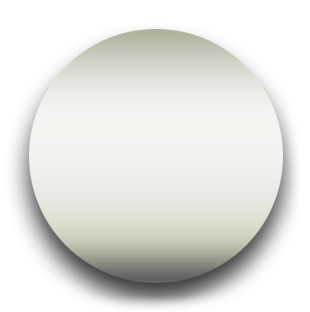
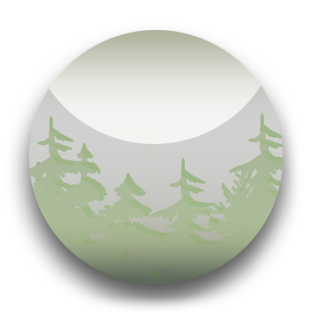
a

diff --git a/src/app2.vue b/src/app2.vue
@@ -3,6 +3,8 @@
 
         <div class="background-slider" :style="backgroundSliderStyle" ref="backgroundSlider"></div>
 
+        <div class="background-v-grad"></div>
+
         <div v-if="!detailViewOpen" class="sector-frame" ref="sectorFrame" :style="computeTransform()" >
             <sector2 v-for="(sector, index) in sectors" 
             :key="index" 
@@ -30,8 +32,8 @@
                 <div class="flag ru" :class="{active:(getLanguage()=='ru')}" v-on:click="setLanguage('ru')"></div>
                 <div class="flag en" :class="{active:(getLanguage()=='en')}" v-on:click="setLanguage('en')"></div>
                 <div class="flag lv" :class="{active:(getLanguage()=='lv')}" v-on:click="setLanguage('lv')"></div>
-                <div class="button-prev" v-if="!isDetailViewVisible" v-on:click="autoRotate(10)"></div>
-                <div class="button-next" v-if="!isDetailViewVisible" v-on:click="autoRotate(-10)"></div>
+                <div class="button-prev" v-if="!detailViewOpen" v-on:click="autoRotate(10)"></div>
+                <div class="button-next" v-if="!detailViewOpen" v-on:click="autoRotate(-10)"></div>
             </div>
         </div>
 
@@ -156,6 +158,7 @@
             initDetailView:function(){
                 if(typeof this.$refs.detailScreen != 'undefined') {
                     Velocity(this.$refs.detailScreen, {opacity: 0}, {display: "none"});
+                    Velocity(this.$refs.detailScreen,"finish");
                     this.rotateDetailView(this.selectedDetail, true);
                 }
             },
@@ -416,6 +419,13 @@
         height:768px;
         position:absolute;
         top:0;
+    }
+    .background-v-grad{
+        width:2240px;
+        height:768px;
+        position:absolute;
+        background: rgb(2,0,36);
+        background: linear-gradient(180deg, rgba(0,0,0,0.6838936258096988) 0%, rgba(0,0,0,0.3785714969581583) 5%, rgba(0,0,0,0) 11%, rgba(0,0,0,0) 27%, rgba(0,0,0,0.4289916650253851) 44%, rgba(0,0,0,0) 61%, rgba(0,0,0,0) 87%, rgba(0,0,0,0.4598039899553571) 95%, rgba(0,0,0,0.5382353625043768) 100%);
     }
     .sector-frame{
         transform-style: preserve-3d;

diff --git a/src/components/sector2.vue b/src/components/sector2.vue
@@ -214,11 +214,10 @@
         background-repeat: round;
     }
     .sector .title {
-    /*    filter: brightness(50%); */
         left:-50%;
         position:absolute;
         text-align: center;
-        font-size: 35px;
+        font-size: 30px;
         width:100%;
         bottom: 35px;
         line-height: 30px;
@@ -236,7 +235,7 @@
         left:-50%;
         position:absolute;
         text-align: center;
-        font-size: 35px;
+        font-size: 30px;
         width:100%;
         bottom: 35px;
         line-height: 30px;
